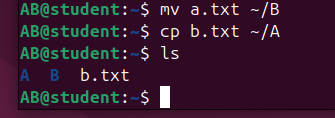
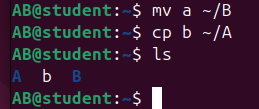
linux practice

Changed region(s): [[0.0, 0.0, 0.8958, 1.0], [0.5251, 0.7982, 1.0, 1.0], [0.5869, 0.4128, 0.6795, 0.5505]]

diff --git a/operacinesSistemos/week1/10_15/2_3/uzduotis.md b/operacinesSistemos/week1/10_15/2_3/uzduotis.md
@@ -11,15 +11,11 @@ sudo passwd AB
 
 2. Patikrinkite, ar vartotojas VP buvo sukurtas. 
 
+```
+cat /etc/passwd
+```
+
 ![Answer Two](./images/answer2.png)
-
-or
-
-```
-cat /etc/ passwd
-```
-
-![Answer Two-One](./images/answer2-1.png)
 
 3. Atimkite iš vartotojo VP teises peržiūrėti vaizdo įrašus. Pažiūrėkite, kokioms grupėms priklauso VP. 
 
@@ -50,6 +46,7 @@ su AB
 6. Patikrinkite, kas prisijungęs prie sistemos ir koks vartotojas dabar dirba su terminalo langu. 
 
 ```
+who
 whoami
 ```
 
@@ -58,7 +55,7 @@ whoami
 7. Savo namų kataloge sukurkite failus a ir b. Sukurkite katalogus A ir B. 
 
 ```
-touch a.txt b.txt
+touch a b
 mkdir A B
 ```
 
@@ -83,11 +80,25 @@ rm -r *
 
 10. Nukopijuokite failus /etc/timezone ir /etc/sudoers su jų originaliomis teisėmis ir savininkais į savo namų katalogą. 
 
+```
+sudo cp --preserve=mode,ownership /etc/timezone /home/AB/
+sudo cp --preserve=mode,ownership /etc/sudoers /home/AB/
+```
 
+![Answer Ten](./images/answer10.png)
 
-Vartotojo student namų kataloge sukurkite katalogą foreign. Pakeiskite jo šeimininką ir grupę į student. 
+11. Vartotojo student namų kataloge sukurkite katalogą foreign. Pakeiskite jo šeimininką ir grupę į student. 
 
-Pakeiskite sukurto katalogo foreign teises taip, kad visi sistemoje galėtų į jį įeiti, tačiau niekas negalėtų įrašyti. 
+```
+sudo mkdir /home/student/foreign
+sudo chown student:student /home/student/foreign
+```
+
+12. Pakeiskite sukurto katalogo foreign teises taip, kad visi sistemoje galėtų į jį įeiti, tačiau niekas negalėtų įrašyti. 
+
+```
+
+```
 
 Savo namų kataloge sukurkite katalogo foreign nuorodą. 
 
